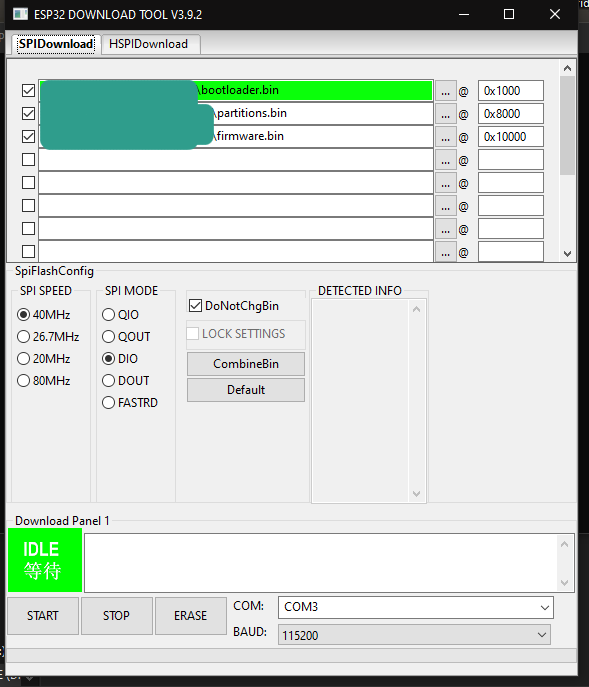
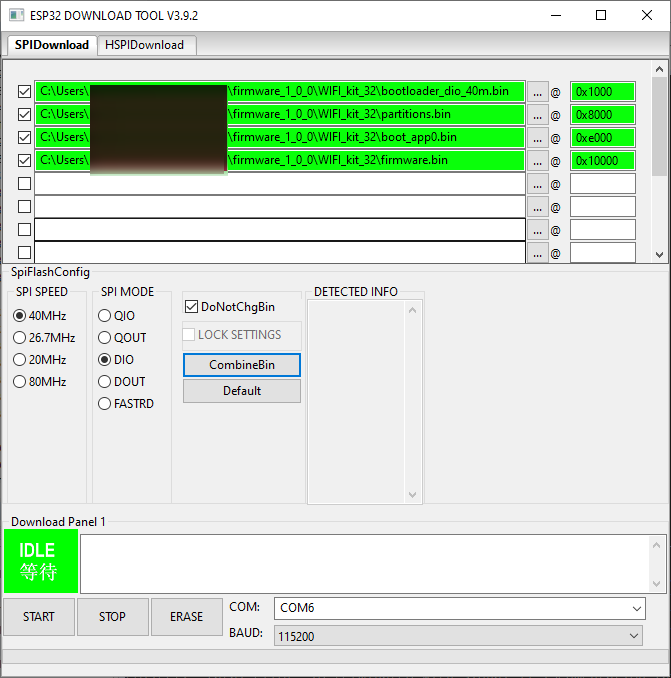
docs: Update pictures. Change description to version 2.0.0

diff --git a/README.pl.md b/README.pl.md
@@ -41,8 +41,8 @@
 
 Urządznie łączy się z interfejsem OBD po Bluetooth i wyświetla informacje o stanie DPF.
 
-![pic02](/docs/pic02.png)
-![pic01](/docs/pic01.jpg)
+![pic03](/docs/pic03.png)
+![pic04](/docs/pic04.png)
 
 Wyświetlane są następujące parametry:
 
@@ -50,19 +50,13 @@ Wyświetlane są następujące parametry:
 * Wyliczona masa sadzy (smc)
 * Dystans od ostatniej regeneracji (dslr)
 * Czas od ostatniej regeneracji (tslr)
-
-Z powodu małej wielkości wyświetlacza ostatni element który wyświetlamy jest do wyboru:
-* Pozostałość popiołu olejowego (oar) - domyślnie włączony
-lub
+* Pozostałość popiołu olejowego (oar)
 * Temperatura wejściowa (itemp)
 * Temperatura wyjściowa (otemp)
 
-Wybór czy mam być wyświetlany parametr oar czy itemp+otemp dokonumemy w pliku `platformio.ini` komentując lub pozostawając linię:
-
-```-DREAD_OAR_INSTEAD_TEMPERATURE```
 
 Dane odświeżane są co 10 sekund. Po prawej stronie wyświetlacza zaznaczany jest prawidłowy `V` lub nieprawidłowy `X` odczyt danego parametru.
-Na dole wyświetlany jest pasek postępu który odlicza czas do kolejnej aktualizacji danych.
+Na dole wyświetlany jest pasek postępu który odlicza czas do odpytania o kolejny parametr.
 
 Urządzenie testowałem tylko z interfejsem iCar2 Vgate, ale podejrzewam, że może działać w oparciu o dowolny interfejs z ELM 327.
 
@@ -105,7 +99,9 @@ W paczce z firmware powinniśmy mieć cztery pliki:
 
 Należy je wypakować do jakiegoś katalogu na dysku.
 
-Po uruchomieniu aplikacji `ESP32 DOWNLOAD TOOL` należy wskazać te pliki oraz uzupełnić pola analogicznie jak na zrzucie ekranu ekranu poniżej, z tą różnicą, że trzeba podać następujące adresy:
+Po uruchomieniu aplikacji `ESP32 DOWNLOAD TOOL` należy wskazać te pliki oraz uzupełnić pola analogicznie jak na zrzucie ekranu ekranu poniżej.
+
+![esp32_download_tool](/docs/esp32_download_tool.png)
 
 ```
 bootloader_dio_40m.bin - 0x1000
@@ -113,8 +109,6 @@ partitions.bin - 0x8000
 boot_app0.bin - 0xe000
 firmware.bin - 0x10000
 ```
-
-![esp32_download_tool](/docs/esp32_download_tool.png)
 
 Naciśnij przycisk `START` aby rozpocząć wgrywanie firmware do urządzenia.
 
@@ -143,9 +137,11 @@ Jest to przydatne w momencie występienia błędu podczas łączenia. A problem 
 
 ## Plan rozwoju
 
-- [ ] Zwiększenie czcionki i wyświetlanie tylko jednego parametru na raz
+- [x] Zwiększenie czcionki i wyświetlanie tylko jednego parametru na raz
 - [ ] Możliwość konfiguracji urządzenia (podanie nazwy interfejsu OBD oraz kodu PIN)
-- [ ] Zaktualizować zrzut ekranu z ESP32 DOWNLOAD TOOL (używam Linuxa, a ta aplikacja jest pod Windowsa)
+- [x] Zaktualizować zrzut ekranu z ESP32 DOWNLOAD TOOL (używam Linuxa, a ta aplikacja jest pod Windowsa)
+- [ ] Alarm (buzzer) w momencie rozpoczęcia i zakończenia regeneracji DPF
+- [ ] Automatyczne usuwanie sparowanych urządzeń w przypadku błędu połączenia
 
 <p align="right">(<a href="#top">powrót do góry</a>)</p>
 

diff --git a/README.md b/README.md
@@ -41,8 +41,8 @@
 
 The device connects to the OBD interface via Bluetooth and displays DPF status information.
 
-![pic02](/docs/pic02.png)
-![pic01](/docs/pic01.jpg)
+![pic03](/docs/pic03.png)
+![pic04](/docs/pic04.png)
 
 The following parameters are displayed:
 
@@ -50,19 +50,13 @@ The following parameters are displayed:
 * Soot mass calculated (smc)
 * Distance since last regeneration (dslr)
 * Time since last regeneration (tslr)
-
-Because of the small size of the display, the last item we display is selectable:
-* Oil Ash Residue (oar) - enabled by default
-or
+* Oil Ash Residue (oar)
 * Input temperature (itemp)
 * Output temperature (otemp)
 
-The choice of whether to display the oar or itemp+otemp parameter is made in the `platformio.ini` file by commenting or leaving the line:
-
-```-DREAD_OAR_INSTEAD_TEMPERATURE```
 
 The data is refreshed every 10 seconds. On the right side of the display, a correct `V` or incorrect `X` reading of a given parameter is marked.
-A progress bar is displayed at the bottom which counts down the time until the next data update.
+A progress bar is displayed at the bottom, counting down the time until the next parameter is checked.
 
 I tested the device only with the iCar2 Vgate interface, but I suspect it could work with any interface with the ELM 327.
 
@@ -105,7 +99,9 @@ We should have four files in the firmware package:
 
 You should extract them to some directory on your disk.
 
-After launching the `ESP32 DOWNLOAD TOOL` application, you need to point to these files and complete the fields analogously to the screenshot below, except that you need to enter the following addresses:
+After launching the `ESP32 DOWNLOAD TOOL` application, you need to point to these files and complete the fields analogously to the screenshot below.
+
+![esp32_download_tool](/docs/esp32_download_tool.png)
 
 ```
 bootloader_dio_40m.bin - 0x1000
@@ -113,8 +109,6 @@ partitions.bin - 0x8000
 boot_app0.bin - 0xe000
 firmware.bin - 0x10000
 ```
-
-![esp32_download_tool](/docs/esp32_download_tool.png)
 
 Press the `Start` button to start uploading the firmware to the device.
 
@@ -143,9 +137,11 @@ This is useful when a connection error occurs. And the problem occurs when you c
 
 ## Roadmap
 
-- [ ] Increase the font and display only one parameter at a time
+- [x] Increase the font and display only one parameter at a time
 - [ ] Ability to configure the device (specifying the name of the OBD interface and PIN code)
-- [ ] Update the screenshot from ESP32 DOWNLOAD TOOL (I'm using Linux, and this app is for Windows)
+- [x] Update the screenshot from ESP32 DOWNLOAD TOOL (I'm using Linux, and this app is for Windows)
+- [ ] Alarm (buzzer) when DPF regeneration begins and ends
+- [ ] Automatic removal of paired devices in case of connection error
 
 <p align="right">(<a href="#top">back to top</a>)</p>
 
